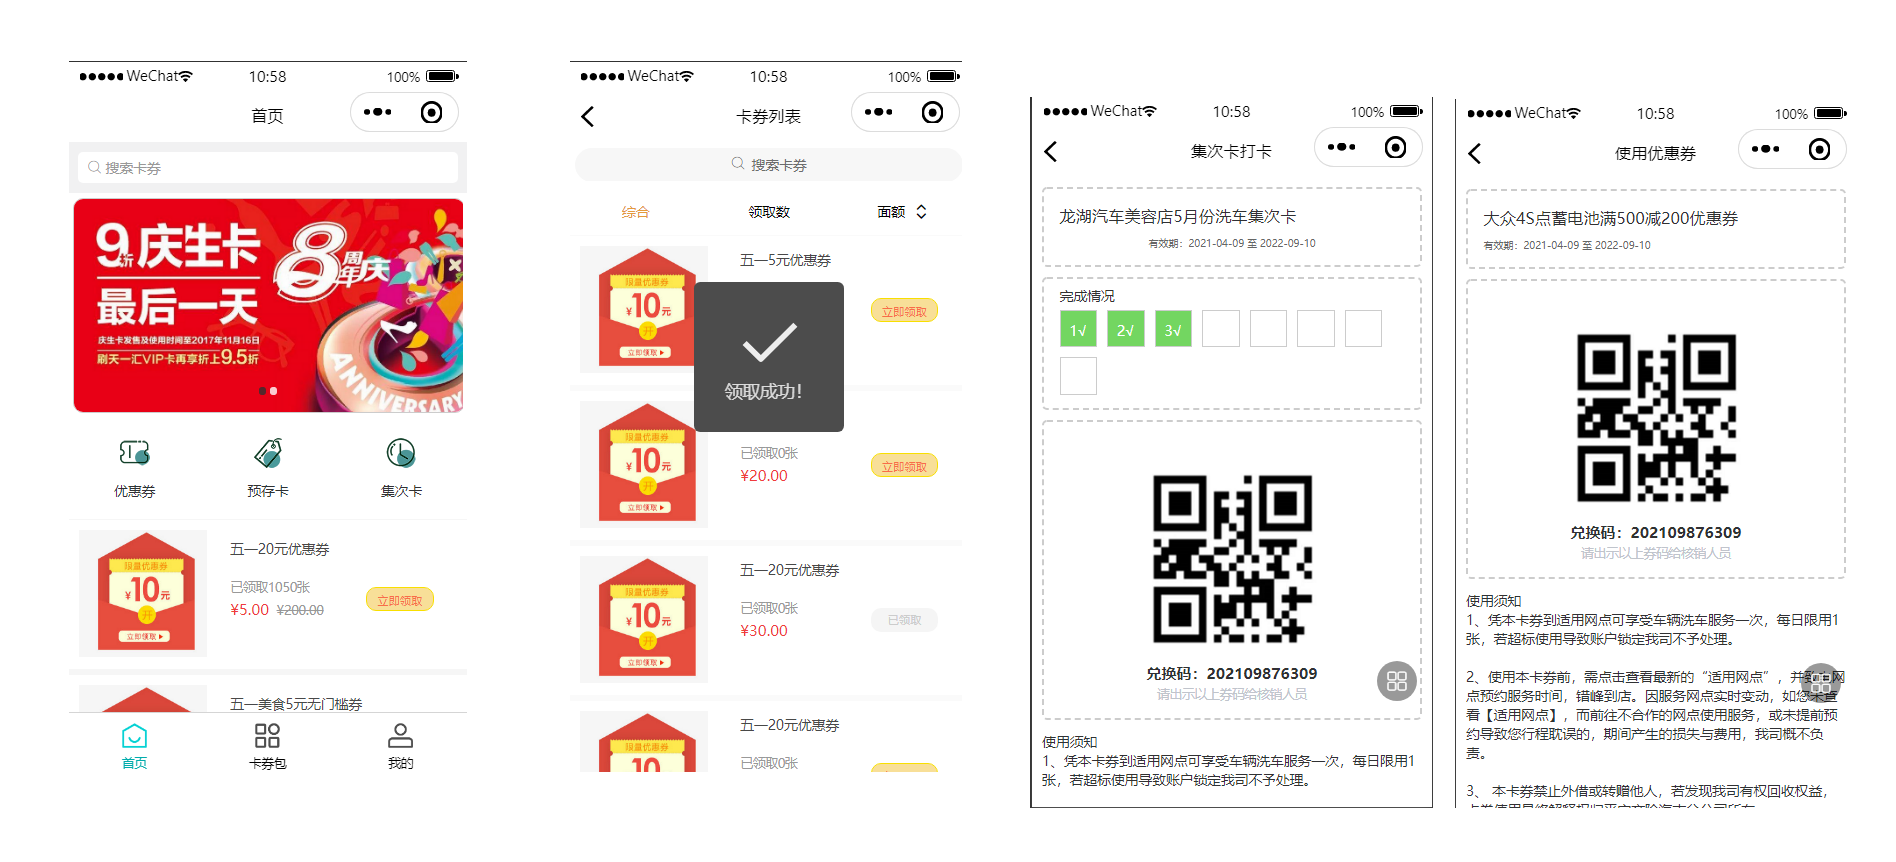
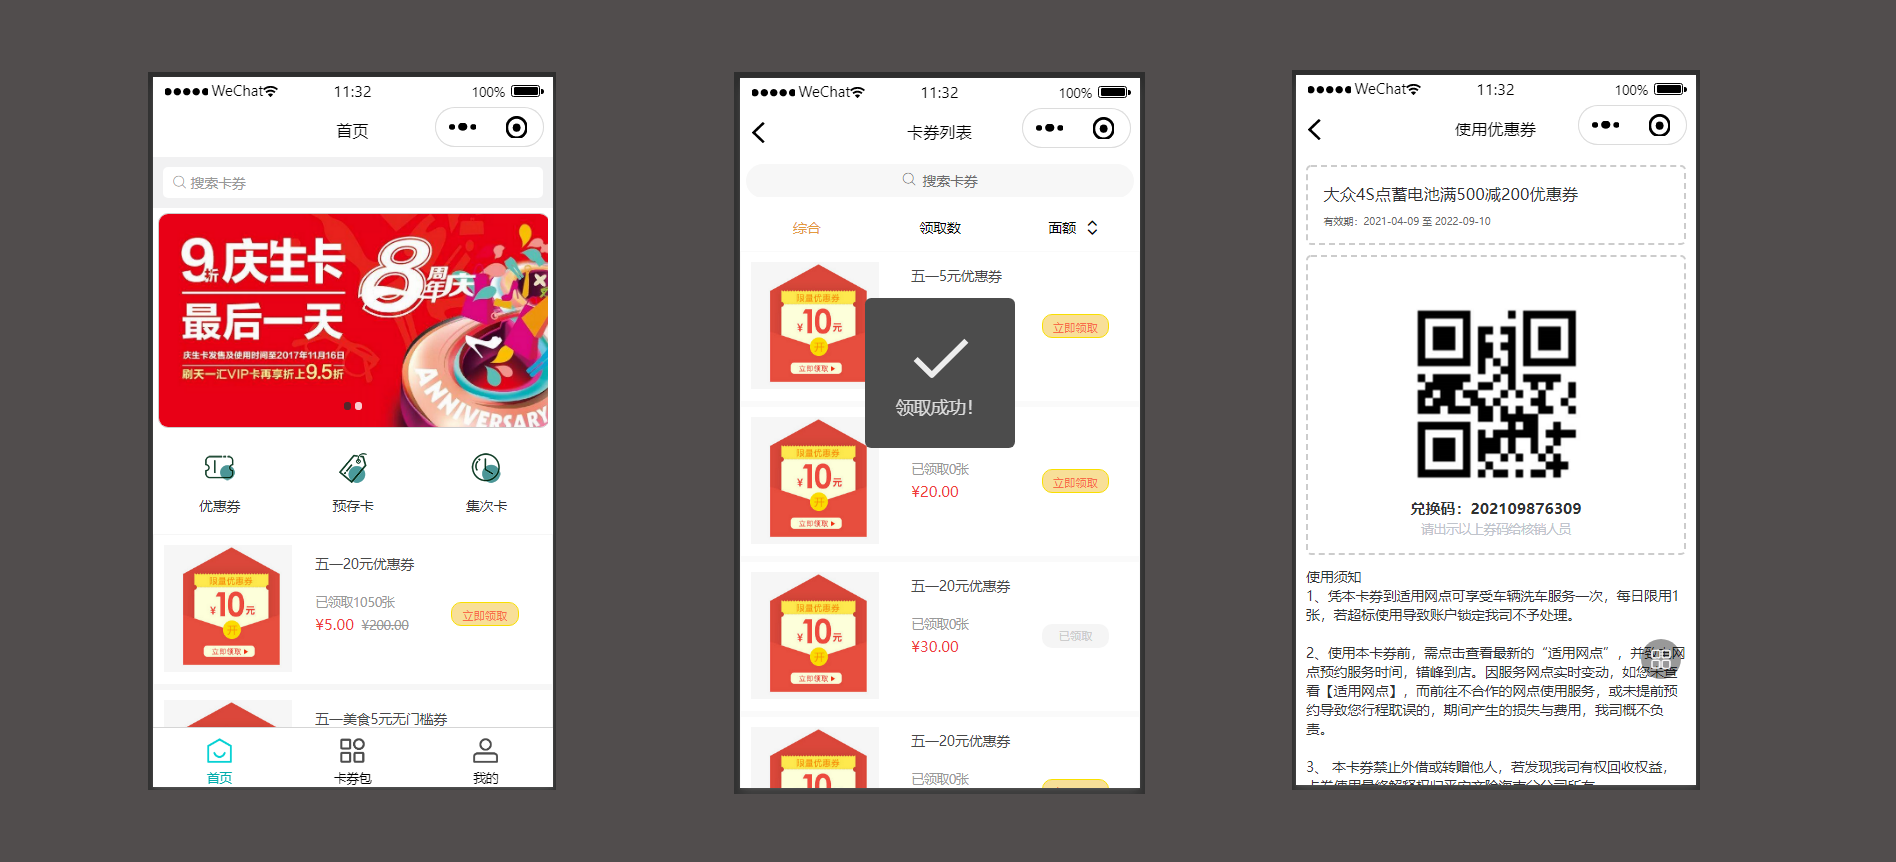
fixed version

diff --git a/README.md b/README.md
@@ -4,7 +4,9 @@
 欢迎使用FuInt会员卡券系统。本项目包含优惠券、预存卡、集次卡、短信发送、储值卡、消费券等会员营销功能，支持批量操作。源码完整，包含前台微信小程序、h5、后端api、后台管理三部分。本系统适用于各类实体店铺，如酒店、汽车4S店、鲜花店、甜品店、餐饮店等，
 也适用于线上的电商系统，有独立的接入api，建议咨询下方的微信，以便提供更完善的功能。
 以下是前台的页面展示：
-<p><img src="screenshots/g1.png" alt="卡券前台页面"></p>
+<p><img src="screenshots/g1.png" alt="卡券前台页面1"></p>
+<p><img src="screenshots/g2.png" alt="卡券前台页面2"></p>
+
 
 
 #### 软件架构
@@ -13,21 +15,21 @@
 <p><img src="screenshots/login.png" alt="卡券登录界面"></p>
 
 
-前端使用技术
-2.1 Vue
+前端使用技术<br>
+2.1 Vue<br>
 2.3 uniapp
 
 
-后端使用技术
-1.1 SpringMvc
-1.2 mybatis、MyBatis-Plus
-1.3 SpringSecurity
-1.5 Druid
-1.6 Slf4j
-1.7 Fastjson
-1.8 JWT
-1.9 Redis
-1.10 Quartz
+后端使用技术<br>
+1.1 SpringMvc<br>
+1.2 mybatis、MyBatis-Plus<br>
+1.3 SpringSecurity<br>
+1.5 Druid<br>
+1.6 Slf4j<br>
+1.7 Fastjson<br>
+1.8 JWT<br>
+1.9 Redis<br>
+1.10 Quartz<br>
 1.11 Mysql
 
 
@@ -69,11 +71,11 @@
 2.  微信卡券接入
 3.  会员扩展
 
-不足和待完善之处请谅解！源码仅供学习交流，更多功能可加入开发交流群（备注Fuint），我们wx：fsq_better。
-喜欢这个卡券营销系统的小伙伴留下你的小星星啦,star,star哦！
+不足和待完善之处请谅解！源码仅供学习交流，更多功能可加入开发交流群（备注Fuint），我们wx：fsq_better。<br>
+喜欢这个卡券营销系统的小伙伴留下你的小星星啦,star,star哦！<br>
 <p><img src="screenshots/qr.png" alt="卡券首页"></p>
 
 
-特别鸣谢
-mybaitsplus:https://github.com/baomidou/mybatis-plus
+特别鸣谢<br>
+mybaitsplus:https://github.com/baomidou/mybatis-plus<br>
 vue:https://github.com/vuejs/vue
